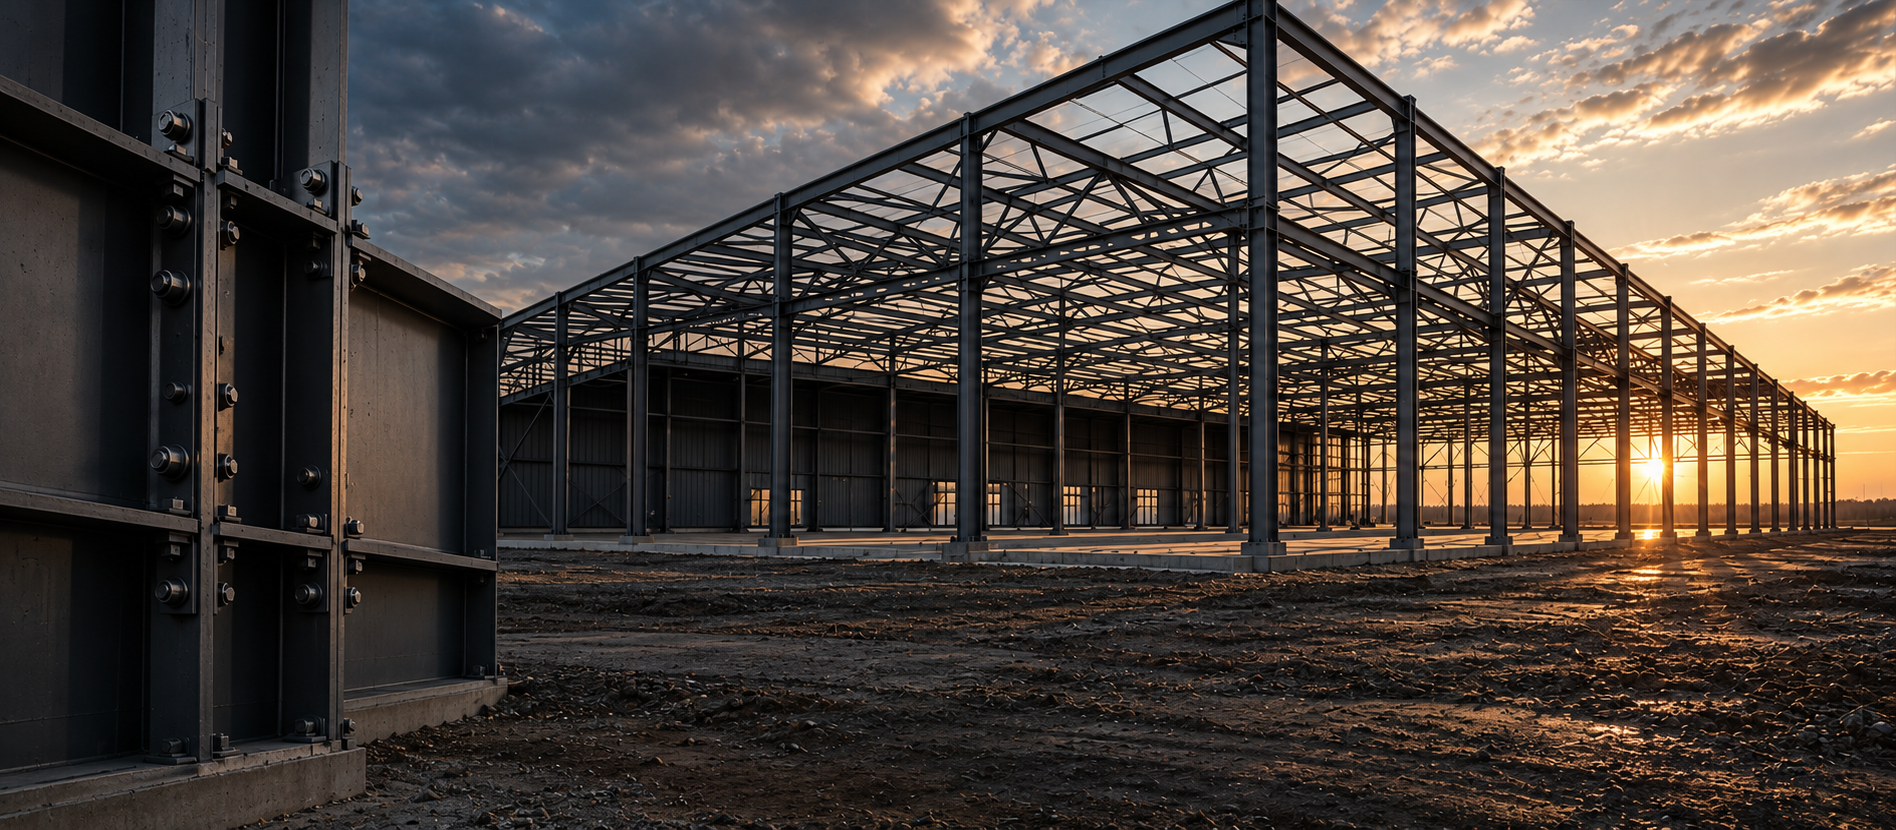
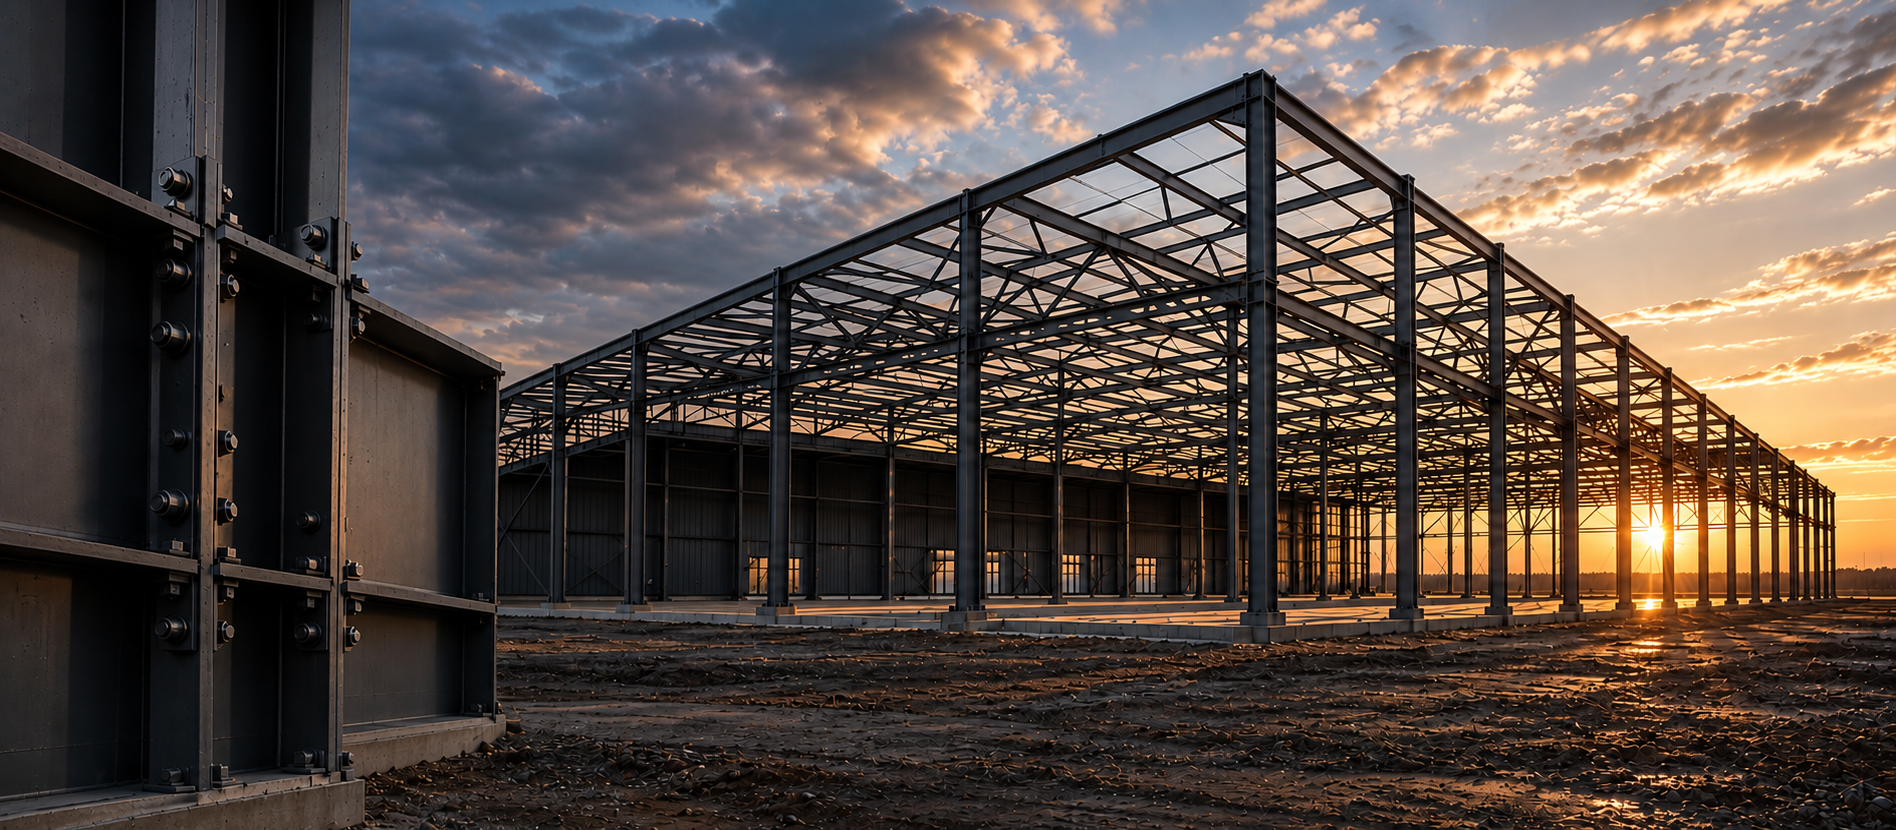
fix(directions): keep hangar roof apex in frame

diff --git a/app/data/directionsHeroSequenceManifest.ts b/app/data/directionsHeroSequenceManifest.ts
@@ -17,13 +17,14 @@ const responsiveSrcSet = (name: string, variants: ResponsiveVariants, portrait =
 
 export const directionsHeroSequenceAssets: readonly DirectionsHeroSequenceAsset[] = [
   {
-    fallbackSrc: '/media-responsive/directions-sequence-angary-1536w.a4dd2c2b.webp',
-    srcSet: responsiveSrcSet('angary', [[480, '11b75790'], [768, '8365e609'], [1200, '7345f2f0'], [1536, 'a4dd2c2b'], [1896, '2d7384ca']]),
-    portraitSrcSet: responsiveSrcSet('angary', [[320, '6ba98586'], [480, 'fc0f5e23'], [622, 'bdb2f746']], true),
+    fallbackSrc: '/media-responsive/directions-sequence-angary-1536w.3c8e8cc9.webp',
+    srcSet: responsiveSrcSet('angary', [[480, '94e4a740'], [768, 'ca3d62f7'], [1200, '452a338b'], [1536, '3c8e8cc9'], [1896, '050ba3f4']]),
+    portraitSrcSet: responsiveSrcSet('angary', [[320, '41c00eaa'], [480, 'eb1e77b6'], [622, '6e4983de']], true),
     width: 1896,
     height: 830,
-    focalPosition: '55% center',
-    mobileFocalPosition: '50% center',
+    // Preserve the sky above the roof apex when wide screens crop the image vertically.
+    focalPosition: '55% top',
+    mobileFocalPosition: '50% top',
   },
   {
     fallbackSrc: '/media-responsive/directions-sequence-zernoskhovyshcha-1536w.6945f8a6.webp',

diff --git a/app/napryamky/directions.css b/app/napryamky/directions.css
@@ -13,6 +13,17 @@
 .directions-page .directions-hero-actions :is(.subhero-side-cta, .text-link, .hero-call) { margin: 0; }
 /* The clean photographs carry the visual detail; no blueprint grid or blur over their geometry. */
 .directions-page .directions-hero-sequence-image { filter: saturate(.72) contrast(1.03); }
+/* Keep the hangar apex below the fixed header, as on the individual direction pages. */
+.directions-page .directions-hero-sequence-image[src*="directions-sequence-angary-"] {
+  top: 101px;
+  height: calc(100% - 101px);
+}
+@media (max-width: 760px) {
+  .directions-page .directions-hero-sequence-image[src*="directions-sequence-angary-"] {
+    top: 77px;
+    height: calc(100% - 77px);
+  }
+}
 /* Dark under the words on the left, the slide open on the right, a little shade at the top for the slide caption */
 .directions-page .directions-subhero .subhero-overlay {
   background:
